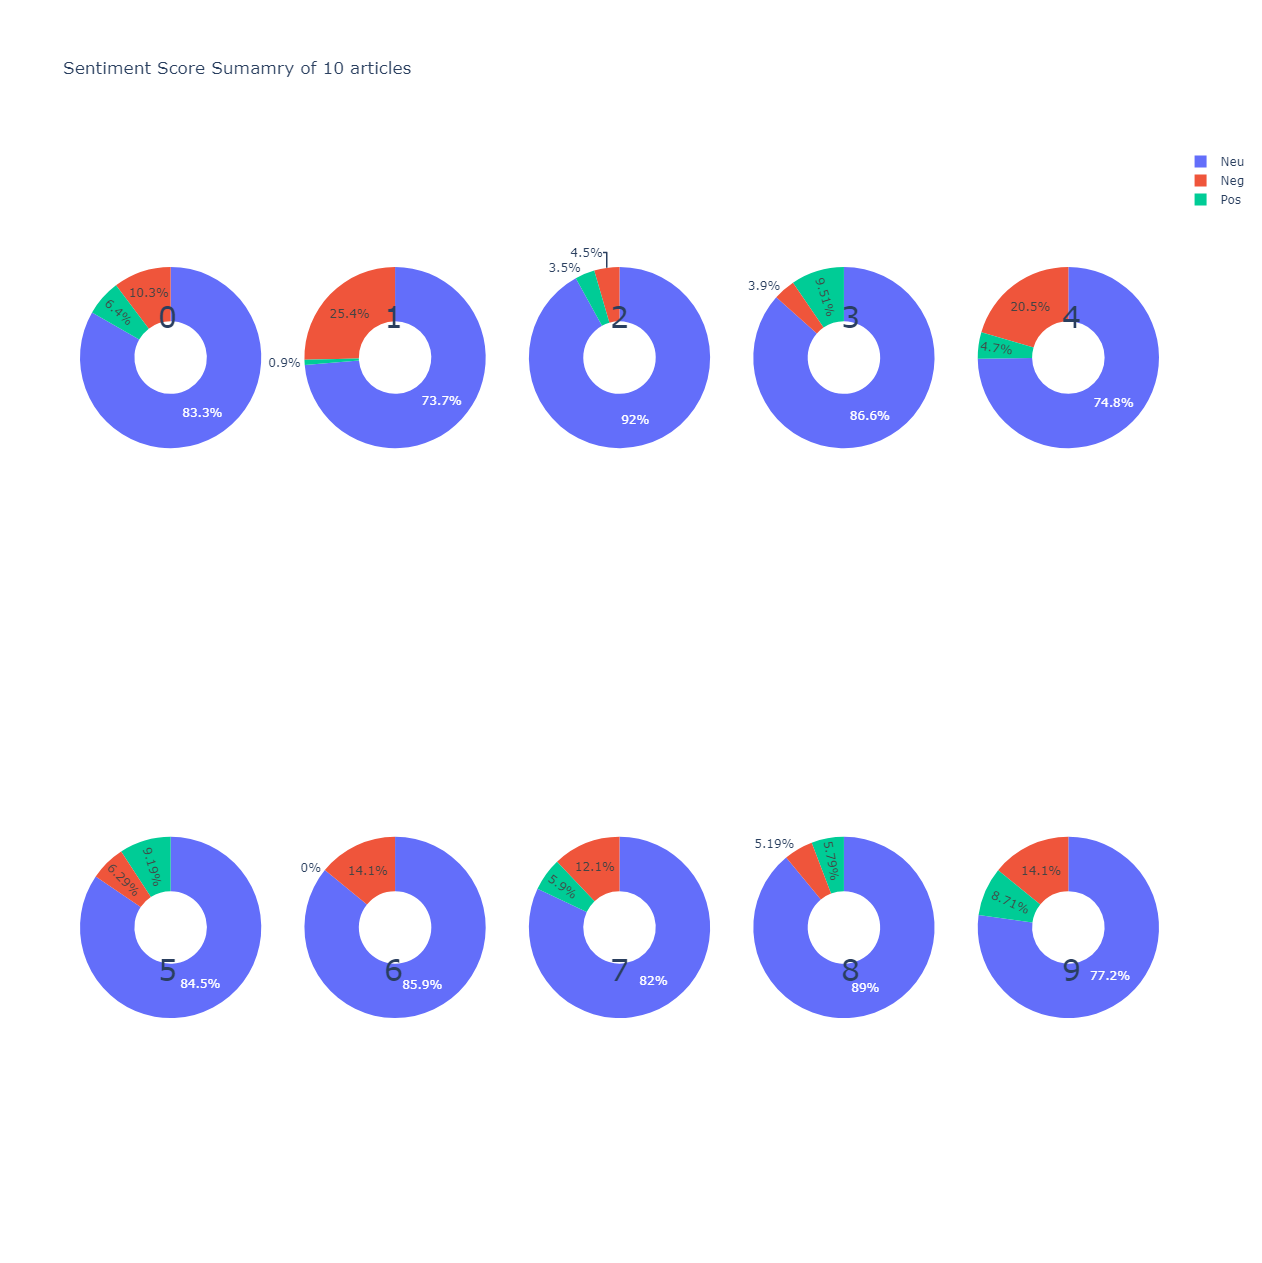
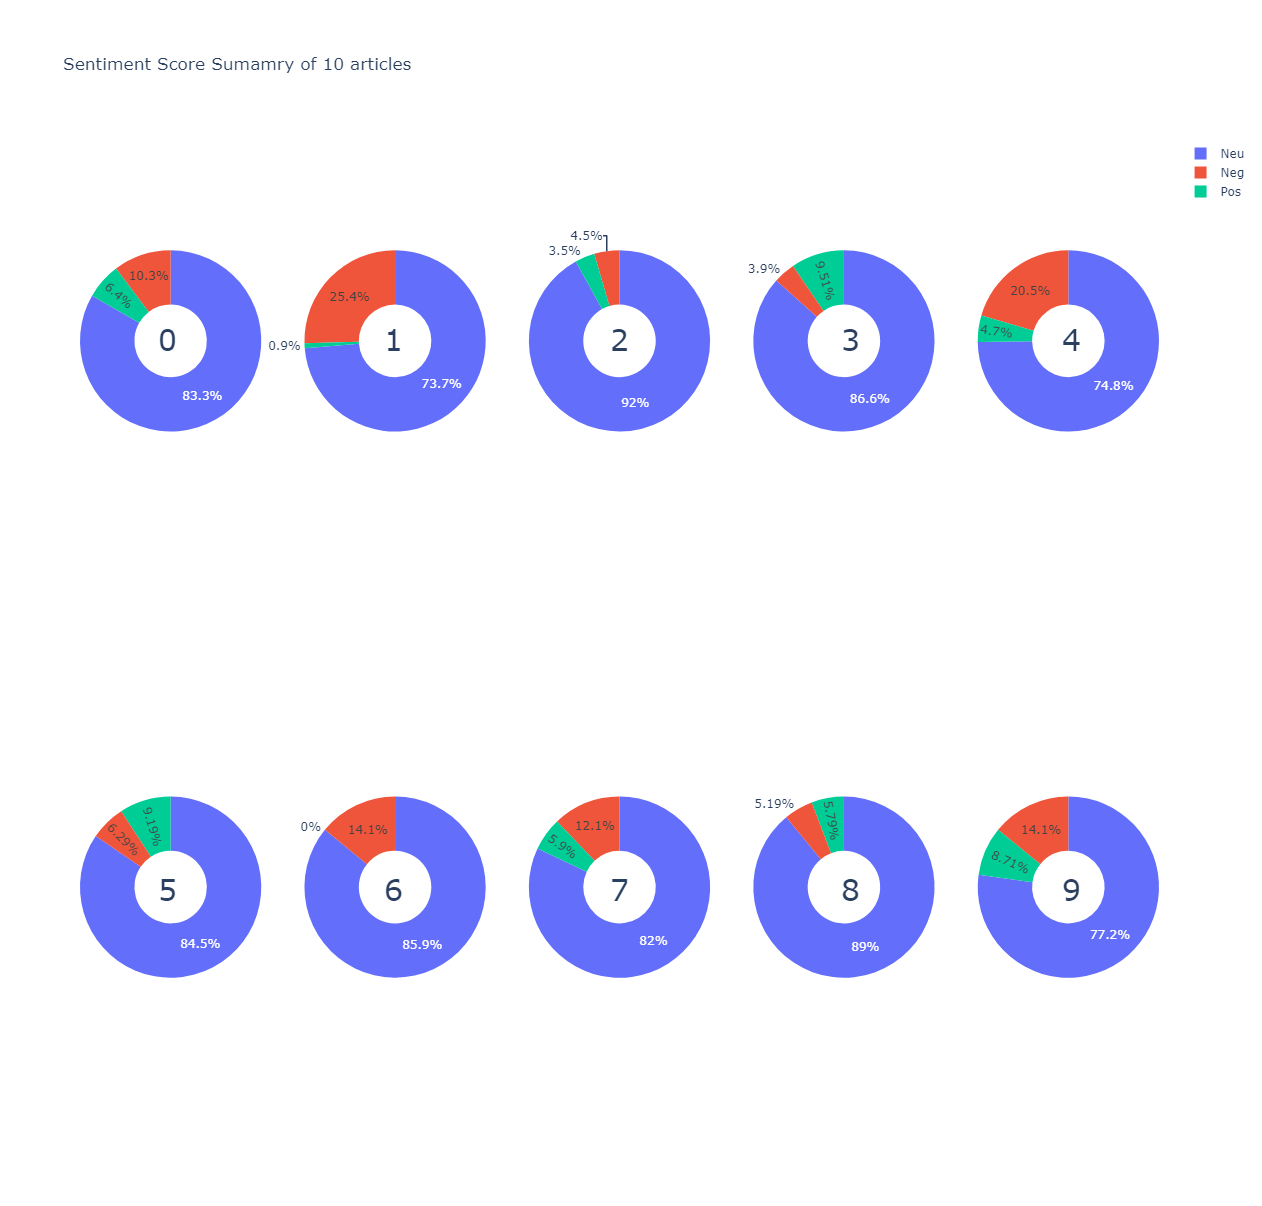
update the image

diff --git a/main.py b/main.py
@@ -113,14 +113,14 @@ if __name__ == '__main__':
     fig.update_layout(
         title_text="Sentiment Score Sumamry of 10 articles",
         # Add annotations in the center of the donut pies.
-        annotations=[dict(text='0', x=0.07, y=0.85, font_size=30, showarrow=False),
-                     dict(text='1', x=0.28, y=0.85, font_size=30, showarrow=False),
-                     dict(text='2', x=0.50, y=0.85, font_size=30, showarrow=False),
-                     dict(text='3', x=0.725, y=0.85, font_size=30, showarrow=False),
-                     dict(text='4', x=0.93, y=0.85, font_size=30, showarrow=False),
-                     dict(text='5', x=0.07, y=0.15, font_size=30, showarrow=False),
-                     dict(text='6', x=0.28, y=0.15, font_size=30, showarrow=False),
-                     dict(text='7', x=0.50, y=0.15, font_size=30, showarrow=False),
-                     dict(text='8', x=0.725, y=0.15, font_size=30, showarrow=False),
-                     dict(text='9', x=0.93, y=0.15, font_size=30, showarrow=False)])
+        annotations=[dict(text='0', x=0.07, y=0.81, font_size=30, showarrow=False),
+                     dict(text='1', x=0.28, y=0.81, font_size=30, showarrow=False),
+                     dict(text='2', x=0.50, y=0.81, font_size=30, showarrow=False),
+                     dict(text='3', x=0.725, y=0.81, font_size=30, showarrow=False),
+                     dict(text='4', x=0.93, y=0.81, font_size=30, showarrow=False),
+                     dict(text='5', x=0.07, y=0.19, font_size=30, showarrow=False),
+                     dict(text='6', x=0.28, y=0.19, font_size=30, showarrow=False),
+                     dict(text='7', x=0.50, y=0.19, font_size=30, showarrow=False),
+                     dict(text='8', x=0.725, y=0.19, font_size=30, showarrow=False),
+                     dict(text='9', x=0.93, y=0.19, font_size=30, showarrow=False)])
     fig.show()
